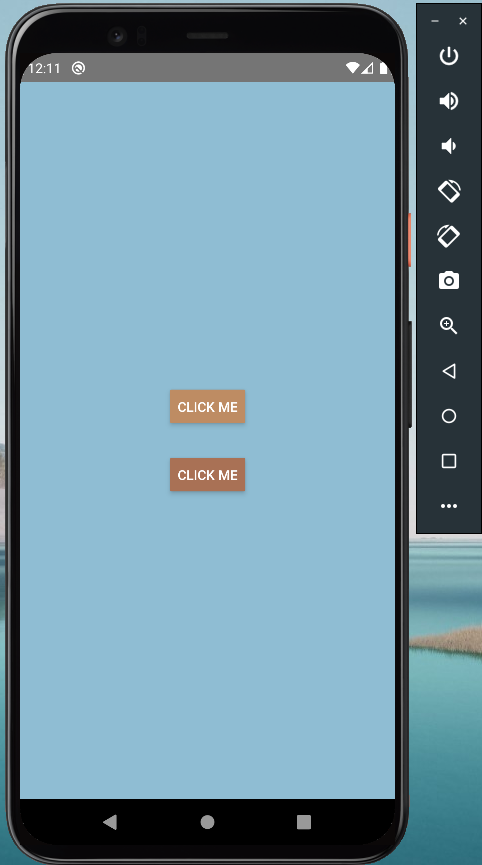
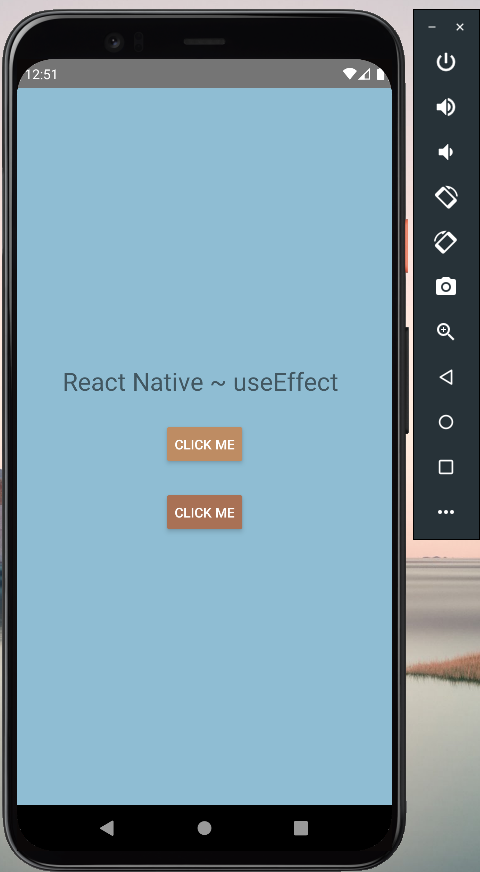
screenshot updated

Changed region(s): [[0.0, 0.0, 1.0, 1.0], [0.125, 0.4058, 0.6875, 0.6243]]

diff --git a/App.js b/App.js
@@ -16,6 +16,7 @@ function App() {
 
   return (
     <View style={{flex:1, alignItems:'center', justifyContent:'center', backgroundColor:'#8FBDD3' }}>
+      <Text style={{fontSize:26}}>React Native ~ useEffect{'\n'}</Text>
       <Button color="#BE8C63" title="Click Me" onPress={() => setCount(count + 1)}/>
       <Text>{'\n'}</Text>
       <Button color="#A97155" title="Click Me" onPress={() => setCount2(count2 + 1)} />
